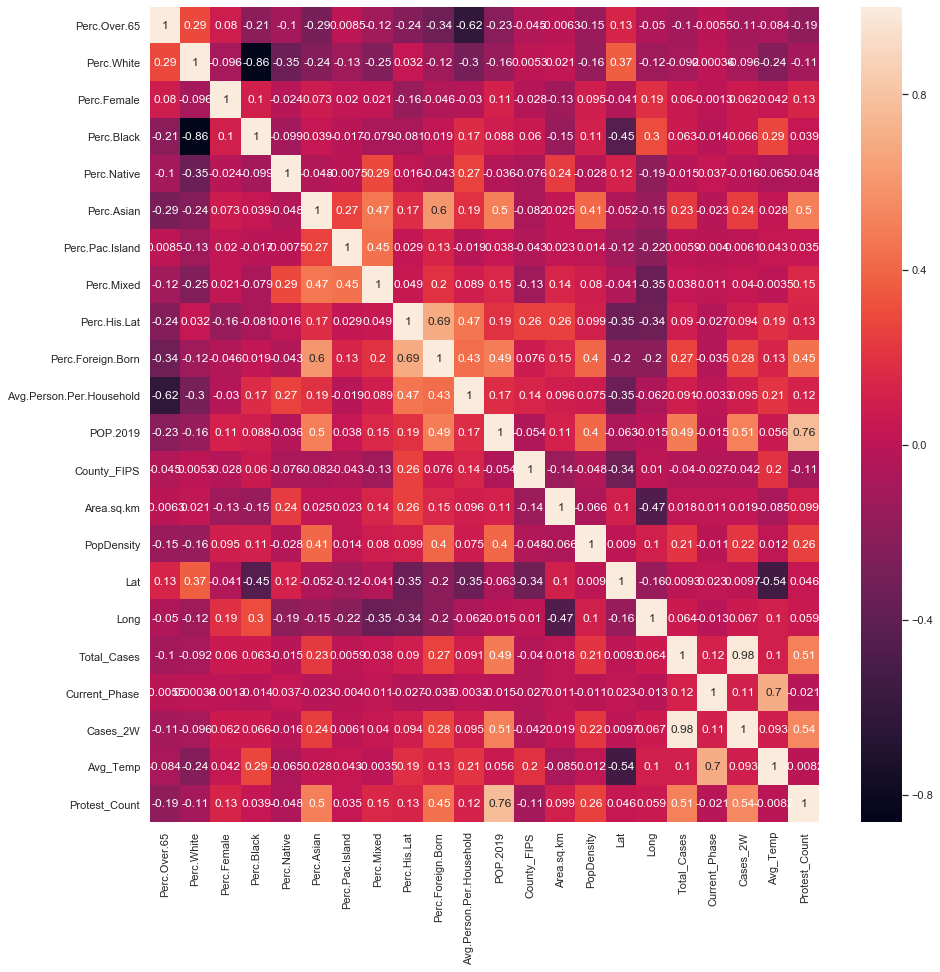
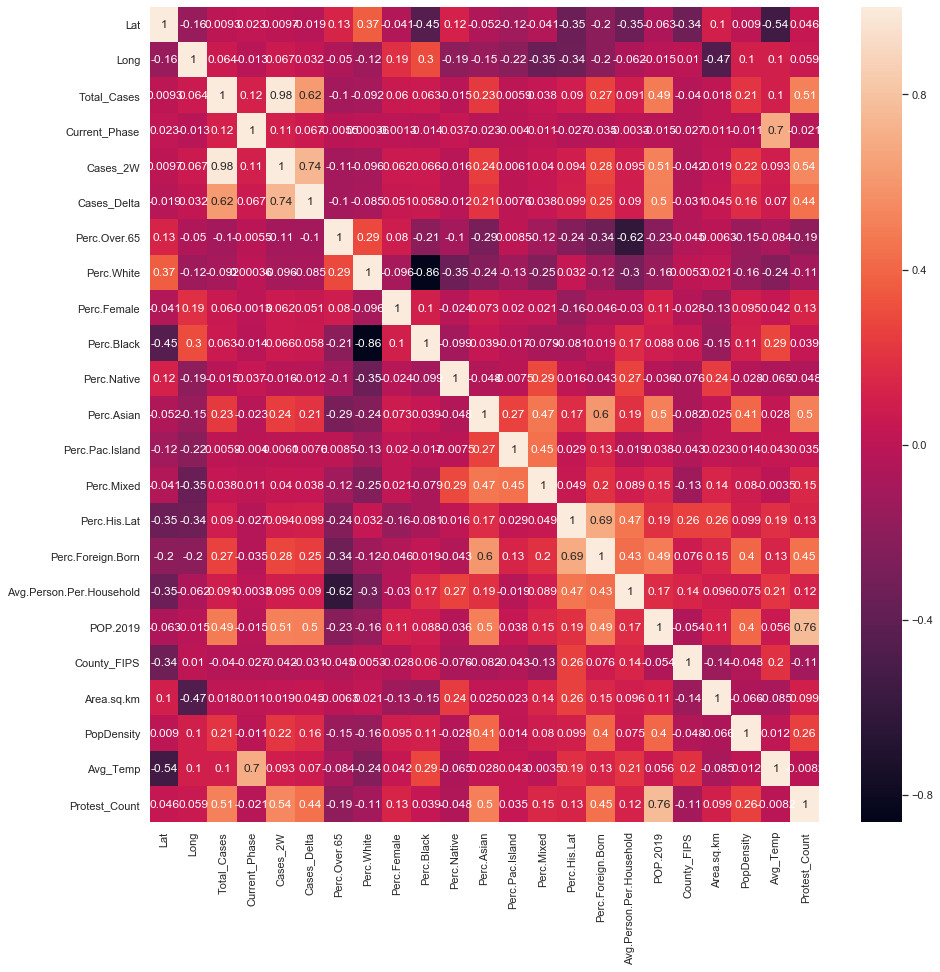
Code and HTML Autoupdate Fri Jul 10 23:47:58 PDT 2020

diff --git a/assets/img/Bokeh/Time_Series_US.html b/assets/img/Bokeh/Time_Series_US.html
@@ -1,0 +1,85 @@
+
+
+
+
+<!DOCTYPE html>
+<html lang="en">
+  
+  <head>
+    
+      <meta charset="utf-8">
+      <title>Bokeh Plot</title>
+      
+      
+        
+          
+        <link rel="stylesheet" href="https://cdn.pydata.org/bokeh/release/bokeh-1.2.0.min.css" type="text/css" />
+        
+        
+          
+        <script type="text/javascript" src="https://cdn.pydata.org/bokeh/release/bokeh-1.2.0.min.js"></script>
+        <script type="text/javascript">
+            Bokeh.set_log_level("info");
+        </script>
+        
+      
+      
+    
+  </head>
+  
+  
+  <body>
+    
+      
+        
+          
+          
+            
+              <div class="bk-root" id="08b2374e-33d2-4adc-8520-54ecae507160" data-root-id="39798"></div>
+            
+          
+        
+      
+      
+        <script type="application/json" id="40252">
[1 lines of base64/hex data omitted]
+        </script>
+        <script type="text/javascript">
+          (function() {
+            var fn = function() {
+              Bokeh.safely(function() {
+                (function(root) {
+                  function embed_document(root) {
+                    
+                  var docs_json = document.getElementById('40252').textContent;
+                  var render_items = [{"docid":"3d07e87d-9a9b-4505-8f06-b6e511f19c67","roots":{"39798":"08b2374e-33d2-4adc-8520-54ecae507160"}}];
+                  root.Bokeh.embed.embed_items(docs_json, render_items);
+                
+                  }
+                  if (root.Bokeh !== undefined) {
+                    embed_document(root);
+                  } else {
+                    var attempts = 0;
+                    var timer = setInterval(function(root) {
+                      if (root.Bokeh !== undefined) {
+                        embed_document(root);
+                        clearInterval(timer);
+                      }
+                      attempts++;
+                      if (attempts > 100) {
+                        console.log("Bokeh: ERROR: Unable to run BokehJS code because BokehJS library is missing");
+                        clearInterval(timer);
+                      }
+                    }, 10, root)
+                  }
+                })(window);
+              });
+            };
+            if (document.readyState != "loading") fn();
+            else document.addEventListener("DOMContentLoaded", fn);
+          })();
+        </script>
+    
+  </body>
+  
+</html>

diff --git a/descriptive_analytics.md b/descriptive_analytics.md
@@ -9,6 +9,8 @@ filename: descriptive_analytics
 
 ## United States Summary
 
+![img](assets/img/Seaborn/Corr_Plot.png)
+
 <iframe src="assets/img/Bokeh/Total_Pop_Plot.html"
     sandbox="allow-same-origin allow-scripts"
     width="100%"
